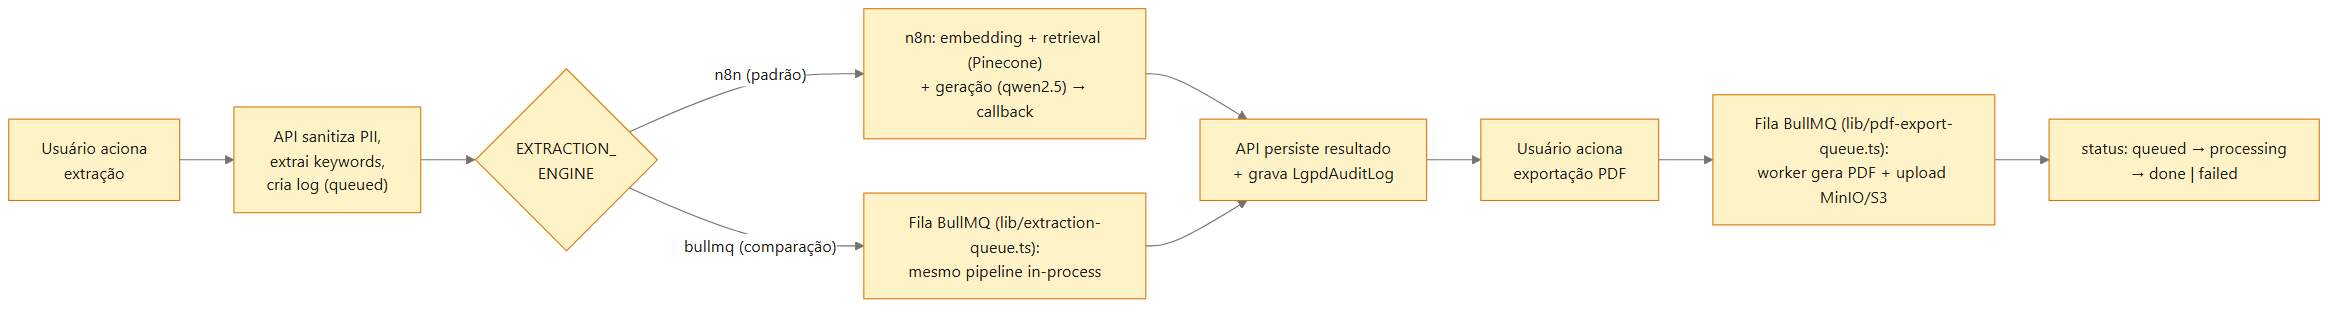
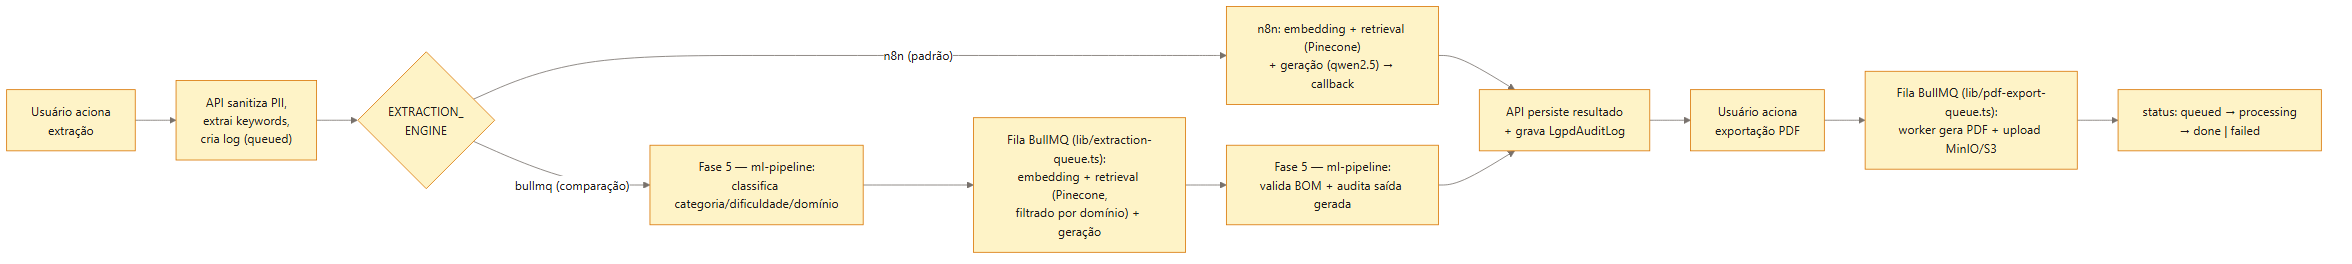
docs(readme): atualizar diagramas da stack e da arquitetura com a Fase 5
Adiciona o ml-pipeline (FastAPI + scikit-learn) no diagrama da stack, e o
fluxo de classificacao previa / validacao de BOM / auditoria no diagrama de
arquitetura (caminho bullmq). Fontes .mmd editadas localmente em
scripts/diagrams/ (pasta scripts/ e local-only, fora do git por convencao
deste repo) e renderizadas via scripts/gerar-diagramas.mjs.

diff --git a/README.md b/README.md
@@ -126,7 +126,7 @@ SINGH, A.; KUMAR, P. Agentic RAG: Orchestrating Autonomous Generative Agents for
 
 ## Diagrama da Stack
 
-<p align="center"><img src="assets/diagrams/stack.png" alt="Diagrama da stack: Next.js, MySQL, Redis/BullMQ, n8n, Ollama, Pinecone, MinIO" width="100%" /></p>
+<p align="center"><img src="assets/diagrams/stack.png" alt="Diagrama da stack: Next.js, MySQL, Redis/BullMQ, n8n, Ollama, Pinecone, MinIO, ml-pipeline (Fase 5)" width="100%" /></p>
 
 Para atualizar: edite `scripts/diagrams/stack.mmd` e rode `node scripts/gerar-diagramas.mjs`.
 
@@ -134,7 +134,7 @@ Para atualizar: edite `scripts/diagrams/stack.mmd` e rode `node scripts/gerar-di
 
 ## Arquitetura — Fluxo Principal
 
-<p align="center"><img src="assets/diagrams/arquitetura-fluxo.png" alt="Fluxo de extração e exportação: sanitização, motor n8n/BullMQ, persistência, exportação PDF" width="100%" /></p>
+<p align="center"><img src="assets/diagrams/arquitetura-fluxo.png" alt="Fluxo de extração e exportação: sanitização, motor n8n/BullMQ com classificação e auditoria da Fase 5, persistência, exportação PDF" width="100%" /></p>
 
 Para atualizar: edite `scripts/diagrams/arquitetura-fluxo.mmd` e rode `node scripts/gerar-diagramas.mjs`.
 
